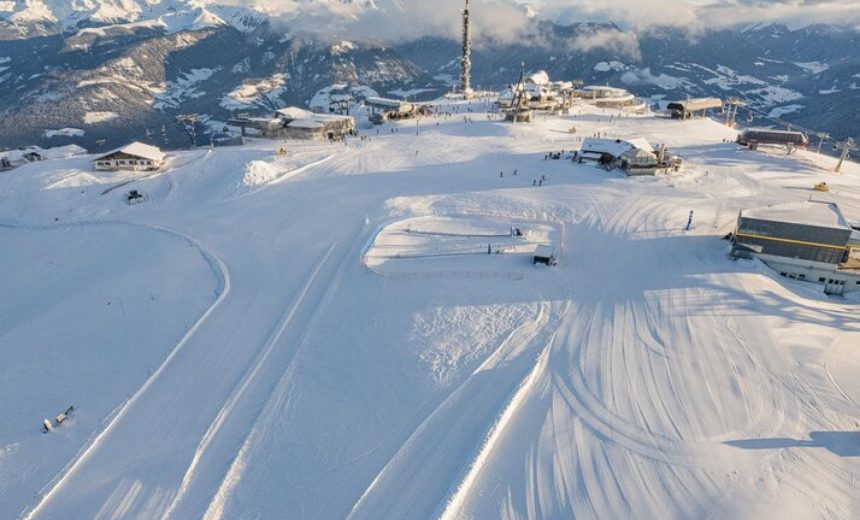
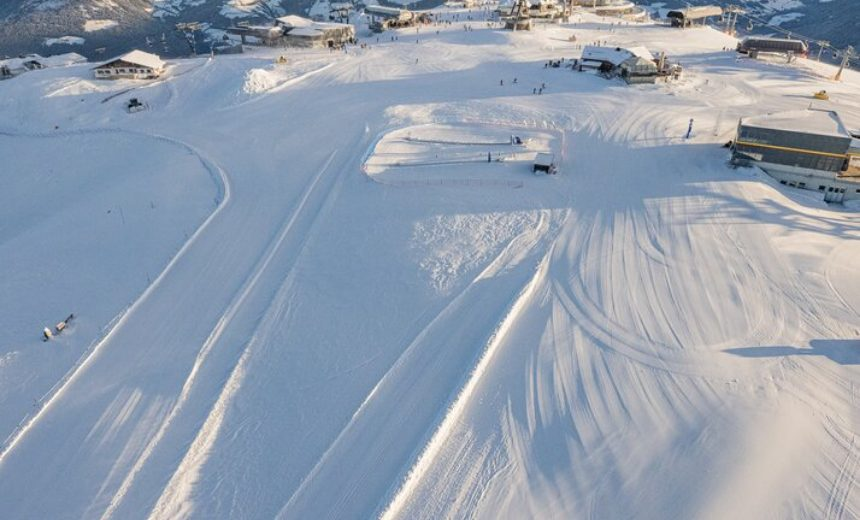
Search the resort list, and say things the way a person would
Search first, because the whole point of the OSM pipeline is that this
list grows and a column of hero cards stops working past a handful. It
filters live and coming-soon resorts on name, region and country —
"kronplatz", "south tyrol" and "italy" are all reasonable things to type
— word by word so the order does not matter, and folded for accents so
"valle d'aosta" finds Valle d'Aosta. It only appears once there are six
resorts, because below that the field is longer than the list it
searches. Nothing found says so rather than showing an empty page. New
e2e section T covers all of it.

Then the copy, which needed more than the lines you flagged.

"What have you got time for?" is a turn of phrase, not a question an app
asks. The screen now asks the thing it actually wants to know — "When do
you need to be down?" — which is also the brief's own principle about how
skiers think. "Where are you, where do you need to be?" was two questions
and a comma splice, and the fields below are already labelled, so the
heading asks one of them. "Mid-day reset" was our word for it, not
anyone else's: "Already skiing". "Not enough mountain" was being clever
where it should have said what was wrong: "Longer than this resort".
"Change the basics" is "Change the plan". And "Only 2 genuinely
different days fit that window" is now "There are only 2 ways to fill
that time. Anything else would be a version of these."

Two numbers were also lying, both the fragment count in a new place. A
[…]

diff --git a/src/screens/HomeScreen.jsx b/src/screens/HomeScreen.jsx
@@ -5,19 +5,54 @@
  * that resort's terrain is backwards — the map should be a consequence of the
  * choice, not the backdrop to it. The mountain arrives when you go skiing.
  */
+import { useMemo, useState } from "react";
 import { RESORTS } from "../resorts/index.js";
 import { listDays, totals, dayLabel } from "../lib/history.js";
-import { Arrow, Check, Gear, Mountain } from "../ui/Icons.jsx";
+import { Arrow, Check, Gear, Mountain, Search, Close } from "../ui/Icons.jsx";
 import Ridge from "../ui/Ridge.jsx";
 import { hours } from "../ui/RouteBits.jsx";
 import FriendsSection from "./FriendsSection.jsx";
 
+/**
+ * Does this resort answer what was typed?
+ *
+ * Name, region and country, because a skier looking for Kronplatz might type
+ * "kronplatz", "south tyrol" or "italy" and all three are reasonable. Folded
+ * for accents so "valle d'aosta" finds "Valle d'Aosta" and "gressoney" finds
+ * "Gressoney-La-Trinité".
+ */
+const fold = (text) =>
+  String(text || "").normalize("NFD").replace(/[\u0300-\u036f]/g, "").toLowerCase();
+
+const matches = (resort, query) => {
+  if (!query) return true;
+  const haystack = fold(`${resort.name} ${resort.region ?? ""} ${resort.country ?? ""}`);
+  // Every word has to appear somewhere, so "italy kron" works and the order
+  // does not matter.
+  return fold(query).split(/\s+/).filter(Boolean).every((word) => haystack.includes(word));
+};
+
 export default function HomeScreen({ selected, onSelect, onGoSkiing, onSettings, friends }) {
-  const live = RESORTS.filter((r) => r.available);
-  const soon = RESORTS.filter((r) => !r.available);
+  const allLive = RESORTS.filter((r) => r.available);
+  const allSoon = RESORTS.filter((r) => !r.available);
+
+  /**
+   * The search field appears once there is enough to search.
+   *
+   * With three resorts a field is furniture; the list is shorter than the
+   * search box. It earns its place when the list stops being scannable, and
+   * the threshold is deliberately low because the whole point of the OSM
+   * pipeline is that this list grows.
+   */
+  const [query, setQuery] = useState("");
+  const searchable = RESORTS.length >= 6;
+  const live = useMemo(() => allLive.filter((r) => matches(r, query)), [allLive, query]);
+  const soon = useMemo(() => allSoon.filter((r) => matches(r, query)), [allSoon, query]);
+  const nothing = query && !live.length && !soon.length;
+
   const days = listDays();
   const t = totals(days);
-  const resort = live.find((r) => r.id === selected);
+  const resort = allLive.find((r) => r.id === selected);
 
   return (
     <div className="page">
@@ -32,6 +67,40 @@ export default function HomeScreen({ selected, onSelect, onGoSkiing, onSettings,
 
       <div className="page__body">
         <h1 className="title">Where are you skiing?</h1>
+
+        {searchable && (
+          <div className="search">
+            <Search className="search__icon" width="18" height="18" />
+            <input
+              className="search__input"
+              type="search"
+              value={query}
+              onChange={(e) => setQuery(e.target.value)}
+              placeholder="Search resorts"
+              aria-label="Search resorts"
+              autoComplete="off"
+              autoCorrect="off"
+              spellCheck="false"
+              enterKeyHint="search"
+            />
+            {query && (
+              <button
+                className="search__clear"
+                onClick={() => setQuery("")}
+                aria-label="Clear search"
+              >
+                <Close width="16" height="16" />
+              </button>
+            )}
+          </div>
+        )}
+
+        {nothing && (
+          <p className="note" style={{ margin: "var(--s-4) 2px" }}>
+            Nothing here matches "{query}". Only resorts with mapped terrain can
+            be planned on, and the list below is everything there is so far.
+          </p>
+        )}
 
         {live.map((r) => (
           <button

diff --git a/src/screens/ResortStatus.jsx b/src/screens/ResortStatus.jsx
@@ -66,11 +66,23 @@ export default function ResortStatus({ resort, onClose }) {
     };
   }, []);
 
-  const byGrade = GRADES.map(([grade, label]) => ({
-    grade, label,
-    count: RUNS.filter((r) => r[3] === grade).length,
-    km: RUNS.filter((r) => r[3] === grade).reduce((sum, r) => sum + r[4], 0),
-  }));
+  /**
+   * How much of each grade there is.
+   *
+   * Kilometres, and a count of named pistes rather than of graph edges. OSM
+   * maps one piste as several ways and the graph splits again at every
+   * junction, so counting edges said Monterosa had 82 red runs — a number
+   * nobody could check against a piste map, in a panel whose whole job is
+   * saying what is actually out there.
+   */
+  const byGrade = GRADES.map(([grade, label]) => {
+    const of = RUNS.filter((r) => r[3] === grade);
+    return {
+      grade, label,
+      count: new Set(of.map((r) => r[2]).filter(Boolean)).size || of.length,
+      km: of.reduce((sum, r) => sum + r[4], 0),
+    };
+  });
   const totalKm = RUNS.reduce((sum, r) => sum + r[4], 0);
   // The mountain shuts from the top down: the earliest last-up is when your
   // options start disappearing, which is more use than the latest one.
@@ -131,7 +143,7 @@ export default function ResortStatus({ resort, onClose }) {
                     {g.label}
                   </span>
                   <span className="row__v">
-                    {g.count} runs, {g.km.toFixed(1)} km
+                    {g.km.toFixed(1)} km over {g.count} {g.count === 1 ? "piste" : "pistes"}
                   </span>
                 </li>
               ))}
@@ -149,7 +161,7 @@ export default function ResortStatus({ resort, onClose }) {
             <ul className="rows">
               <li className="row">
                 <span>Total pisted</span>
-                <span className="row__v">{totalKm.toFixed(0)} km over {RUNS.length} runs</span>
+<span className="row__v">{totalKm.toFixed(0)} km of piste</span>
               </li>
               <li className="row">
                 <span>First lift shuts</span>
@@ -163,7 +175,8 @@ export default function ResortStatus({ resort, onClose }) {
             <p className="note" style={{ marginTop: "var(--s-3)" }}>
               Routes are filtered against these times rather than warned about
               afterwards, so a plan will never leave you above a lift that has
-              closed. Run names and times are provisional.
+              closed. Run names come from OpenStreetMap; the lift times are
+              estimates until the resort provides its own.
             </p>
 
             {/* How much of the mountain this is.

diff --git a/src/styles/tokens.css b/src/styles/tokens.css
@@ -109,18 +109,19 @@
   --note-ink: var(--ink-2);
 
   /* --- Type ---------------------------------------------------------------
-     Body resolves to SF Pro on iPhone, so text metrics match the OS. Inter is
-     the bundled fallback everywhere else. Display is Archivo: a sturdy sporty
-     grotesque that keeps numbers looking like instrument readings rather than
-     like a web dashboard. */
-  /* The system font, everywhere.
-   *
-   * This shipped with Archivo first in --display, so every heading was drawn
-   * in a geometric sans that iOS never uses, and the app read as a web page
-   * pretending to be an app. San Francisco is what an iPhone user's eye
-   * expects, it carries Apple's own optical sizing between Text and Display
-   * cuts, and it costs nothing to download.
-   */
+     The system font, everywhere. Nothing is bundled and nothing is fetched.
+
+     This shipped with Archivo first in --display, so every heading was drawn
+     in a geometric sans that iOS never uses and the app read as a web page
+     pretending to be one. San Francisco is what an iPhone user's eye expects,
+     it carries Apple's own optical sizing between the Text and Display cuts,
+     and it costs nothing to download. The two tokens differ only in which cut
+     they ask for first, which is how Apple intends them to be used: Text
+     below about 20px, Display above it.
+
+     (The paragraph that used to be here still described Inter and Archivo
+     long after both were removed. Kept in mind: a comment about what the
+     code used to do is worse than no comment.) */
   --ui: -apple-system, BlinkMacSystemFont, "SF Pro Text", system-ui,
         "Segoe UI", Roboto, sans-serif;
   --display: -apple-system, BlinkMacSystemFont, "SF Pro Display", system-ui,

diff --git a/src/styles/app.css b/src/styles/app.css
@@ -1424,3 +1424,47 @@ input[type="time"].control { font-weight: 600; font-variant-numeric: tabular-num
 /* The one that is a promise rather than a measurement. */
 .detail__stat--back { margin-left: auto; text-align: right; }
 .detail__stat--back b { color: var(--accent-ink); }
+
+/* ------------------------------------------------------------------ search --
+   Filtering the resort list. Only rendered once there is enough to filter —
+   with three resorts a search box is longer than the list it searches. The
+   field is the same height as every other control so the top of the screen
+   keeps its rhythm. */
+.search {
+  position: relative;
+  display: flex;
+  align-items: center;
+  gap: var(--s-2);
+  margin: var(--s-4) 0 var(--s-2);
+  padding: 0 var(--s-3);
+  background: var(--surface-2);
+  border: 1px solid var(--line);
+  border-radius: var(--r-md);
+  min-height: var(--tap);
+}
+.search:focus-within { border-color: var(--accent); }
+.search__icon { color: var(--ink-4); flex: none; }
+.search__input {
+  flex: 1;
+  min-width: 0;
+  background: none;
+  border: 0;
+  color: var(--ink);
+  font-family: var(--ui);
+  font-size: var(--t-body);
+  padding: var(--s-3) 0;
+  outline: none;
+}
+.search__input::placeholder { color: var(--ink-4); }
+/* Safari draws its own clear button on a search input, and it is grey on grey
+   here. The one below is ours, and matches every other dismiss in the app. */
+.search__input::-webkit-search-cancel-button { display: none; }
+.search__clear {
+  flex: none;
+  width: 32px; height: 32px;
+  display: grid; place-items: center;
+  border-radius: var(--r-pill);
+  color: var(--ink-3);
+  background: none;
+}
+.search__clear:active { background: var(--surface-3); color: var(--ink); }

diff --git a/src/lib/plan.js b/src/lib/plan.js
@@ -52,22 +52,22 @@ export function detectContext(nowMinutes, resort) {
 export const CONTEXT_COPY = {
   nightbefore: {
     eyebrow: "Tomorrow",
-    title: "What have you\ngot time for?",
+    title: "When do you need\nto be down?",
     hint: null,
   },
   firstlift: {
     eyebrow: "First lift",
-    title: "What have you\ngot time for?",
+    title: "When do you need\nto be down?",
     hint: {
-      t: "Times set from the clock",
+      t: "Times set from your clock",
       s: "Change them if you're not going up yet.",
     },
   },
   midday: {
-    eyebrow: "Mid-day reset",
-    title: "Where are you,\nwhere do you need to be?",
+    eyebrow: "Already skiing",
+    title: "Where are you\nright now?",
     hint: {
-      t: "Half the day is gone",
+      t: "Part of the day is gone",
       s: "Set both ends to anywhere on the mountain.",
     },
   },
@@ -292,7 +292,7 @@ export function diagnose(plan, ability, opts, resort, capacity = null) {
     const mins = capacity.minutes % 60;
     const asText = hours ? `${hours}h${mins ? ` ${mins}m` : ""}` : `${mins} minutes`;
     return {
-      title: "Not enough mountain",
+      title: "Longer than this resort",
       headline: `There isn't enough terrain here to fill ${minutesToClock(plan.t0)} to ${minutesToClock(plan.t1)}.`,
       body: `The longest day this resort supports from ${NODES[plan.start].name} at your grade is about ${asText}. Past that you would be skiing the same runs over and over.`,
       fixes: ["shorterDay", ...(ability !== "black" ? ["harder"] : [])],

diff --git a/src/solver.js b/src/solver.js
@@ -214,6 +214,17 @@ function sampleWalk(g, opts, adj, home, rng, caps) {
 export function measure(route, g = MONTEROSA) {
   let km = 0, vertical = 0, lifts = 0, dragLifts = 0;
   const runIds = new Set(), areas = new Set();
+  /**
+   * Distinct pistes by name, which is what a skier means by "runs".
+   *
+   * runIds counts graph edges, and on real OpenStreetMap geometry one piste
+   * arrives as several ways and is split again at every junction — so a
+   * five-hour day was being reported as "34 runs". That number also feeds the
+   * variety and cruisiness scoring below, where counting edges is arguably
+   * the right thing, so it is left alone and this is added alongside it purely
+   * for display.
+   */
+  const pisteNames = new Set();
   const counts = { blue: 0, red: 0, black: 0 };
 
   // A "descent" is a maximal run of consecutive runs with no lift between them.
@@ -229,6 +240,7 @@ export function measure(route, g = MONTEROSA) {
       km += edge.km;
       vertical += edge.drop;
       runIds.add(edge.id);
+      if (edge.name) pisteNames.add(edge.name);
       counts[edge.difficulty]++;
       currentDescent += edge.drop;
       longestDescent = Math.max(longestDescent, currentDescent);
@@ -245,6 +257,7 @@ export function measure(route, g = MONTEROSA) {
     vertical: Math.round(vertical),
     lifts, dragLifts,
     distinctRuns: runIds.size,
+    distinctPistes: pisteNames.size || runIds.size,
     areas: areas.size,
     highestAlt,
     longestDescent,

diff --git a/src/screens/ChooseScreen.jsx b/src/screens/ChooseScreen.jsx
@@ -76,7 +76,7 @@ export default function ChooseScreen({
   return (
     <div className="page">
       <header className="page__bar">
-        <button className="iconbtn iconbtn--flat" onClick={onBack} aria-label="Change the basics">
+        <button className="iconbtn iconbtn--flat" onClick={onBack} aria-label="Change the plan">
           <Back />
         </button>
         <div className="eyebrow">
@@ -125,8 +125,9 @@ export default function ChooseScreen({
           <div className="info">
             <Info className="info__icon" width="17" height="17" />
             <span>
-              Only <b>{routes.length === 1 ? "one" : routes.length}</b> genuinely
-              different {routes.length === 1 ? "day fits" : "days fit"} that window.
+              {routes.length === 1
+                ? "There is only one way to fill that time. Anything else would be a version of it."
+                : `There are only ${routes.length} ways to fill that time. Anything else would be a version of these.`}
             </span>
           </div>
         )}
@@ -228,7 +229,7 @@ export default function ChooseScreen({
 
       <div className="page__foot">
         <button className="btn btn--ghost" onClick={onBack}>
-          Change the basics
+          Change the plan
         </button>
       </div>
     </div>

diff --git a/src/ui/RouteBits.jsx b/src/ui/RouteBits.jsx
@@ -38,13 +38,13 @@ export const routeStats = (route) => [
   { icon: Clock, k: "time", v: hours(route.minutes) },
   { icon: Ruler, k: "distance", v: route.km, unit: " km" },
   { icon: Descend, k: "descent", v: route.vertical.toLocaleString(), unit: " m" },
-  { icon: Runs, k: "runs", v: route.distinctRuns },
+  { icon: Runs, k: "runs", v: route.distinctPistes ?? route.distinctRuns },
 ];
 
 export const detailStats = (route) => [
   { icon: Descend, k: "descent", v: route.vertical.toLocaleString(), unit: " m" },
   { icon: Ruler, k: "distance", v: route.km, unit: " km" },
-  { icon: Runs, k: "runs", v: route.distinctRuns },
+  { icon: Runs, k: "runs", v: route.distinctPistes ?? route.distinctRuns },
   { icon: Lift, k: "lifts", v: route.lifts },
 ];
 

diff --git a/src/screens/SettingsSheet.jsx b/src/screens/SettingsSheet.jsx
@@ -180,11 +180,12 @@ export default function SettingsSheet({ ability, setAbility, onClose, onProfileC
               </li>
               <li className="row">
                 <span>Resort data</span>
-                <span className="row__v">Provisional</span>
+                <span className="row__v">OpenStreetMap</span>
               </li>
             </ul>
             <p className="note" style={{ marginTop: "var(--s-3)" }}>
-              Run names and lift times are provisional and will change.
+              Run names and shapes come from OpenStreetMap. Lift times are
+              estimated until each resort provides its own.
             </p>
           </div>
         </div>

diff --git a/src/ui/Icons.jsx b/src/ui/Icons.jsx
@@ -31,6 +31,13 @@ export const ChevronUp = (p) => (
 export const Close = (p) => (
   <svg {...base} {...p}><path d="M5 5l10 10M15 5 5 15" /></svg>
 );
+/** A magnifier, drawn at the same weight as the rest of the set. */
+export const Search = (p) => (
+  <svg {...base} {...p}>
+    <circle cx="8.5" cy="8.5" r="5.5" />
+    <path d="M12.5 12.5 17 17" />
+  </svg>
+);
 /**
  * A needle, not a dial.
  *

diff --git a/src/screens/EmptyScreen.jsx b/src/screens/EmptyScreen.jsx
@@ -95,7 +95,7 @@ export default function EmptyScreen({ diagnosis, plan, resort, capacity, onFix, 
 
       <SheetFoot>
         <button className="btn btn--ghost" onClick={onBack}>
-          Change the basics
+          Change the plan
         </button>
       </SheetFoot>
     </>
